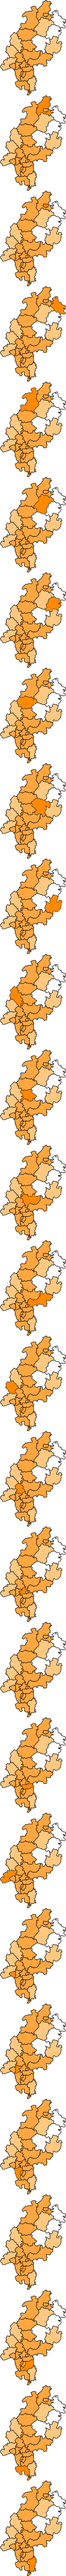
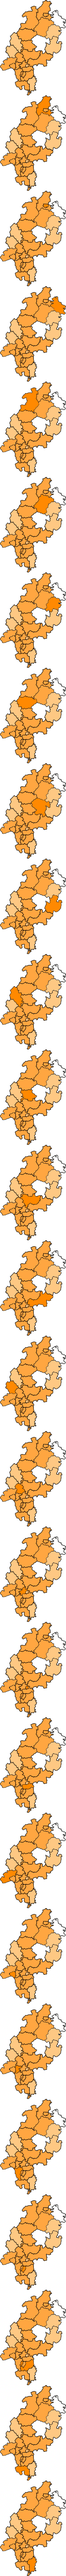
All areas fixed in png and gif map. Switch back to png map

diff --git a/pp_hessen.css b/pp_hessen.css
@@ -1,5 +1,5 @@
 #pp_hessen_karteHessen {
-	background: url(pp_hessen_map.gif) 0 0 no-repeat;
+	background: url(pp_hessen_map.png) 0 0 no-repeat;
 }
 #pp_hessen_region {
 	margin-top: 5px;
